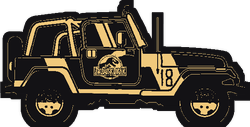
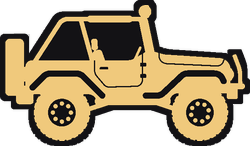
Véhicules : nouvelles silhouettes pour la Jeep et le Spinner, l'Argo pour le Monsterverse

diff --git a/_proto/e-app.js b/_proto/e-app.js
@@ -115,8 +115,8 @@ window.CG_RES = function(cle, h){
   var VEHICULES = {
     starwars: v('faucon', 195, 146), dc: v('batmobile', 250, 93), avatar: v('appa', 250, 143),
     startrek: v('enterprise', 202, 100), walkingdead: v('campingcar', 250, 119), dragonage: v('griffon', 212, 146),
-    jurassicworld: v('jeep', 250, 127), witcher: v('ablette', 174, 146), residentevil: v('helicoptere', 250, 107),
-    bladerunner: v('spinner', 250, 80), monsterverse: v('porteavions', 250, 65),
+    jurassicworld: v('jeep', 250, 146), witcher: v('ablette', 174, 146), residentevil: v('helicoptere', 250, 107),
+    bladerunner: v('spinner', 204, 74), monsterverse: v('argo', 244, 146),
     marvel: v('helicarrier', 250, 128), assassinscreed: v('aigle', 123, 146), dcanimation: v('batmobile', 250, 93)
   };
   // les noms des protos et du Dossier

diff --git a/app.js b/app.js
@@ -115,8 +115,8 @@ window.CG_RES = function(cle, h){
   var VEHICULES = {
     starwars: v('faucon', 195, 146), dc: v('batmobile', 250, 93), avatar: v('appa', 250, 143),
     startrek: v('enterprise', 202, 100), walkingdead: v('campingcar', 250, 119), dragonage: v('griffon', 212, 146),
-    jurassicworld: v('jeep', 250, 127), witcher: v('ablette', 174, 146), residentevil: v('helicoptere', 250, 107),
-    bladerunner: v('spinner', 250, 80), monsterverse: v('porteavions', 250, 65),
+    jurassicworld: v('jeep', 250, 146), witcher: v('ablette', 174, 146), residentevil: v('helicoptere', 250, 107),
+    bladerunner: v('spinner', 204, 74), monsterverse: v('argo', 244, 146),
     marvel: v('helicarrier', 250, 128), assassinscreed: v('aigle', 123, 146), dcanimation: v('batmobile', 250, 93)
   };
   // les noms des protos et du Dossier

diff --git a/CLAUDE.md b/CLAUDE.md
@@ -3995,7 +3995,7 @@ interdit par les aplats), 250 × 146 px au plus. **Tous à la même surface**
 plus de véhicule, sans un mot. Le script de conversion n'est pas versionné ; il
 détecte le fond, comble les trous, met la coque en or, tourne nez à droite. Faucon (Star Wars et Dossier), Batmobile (DC),
 Appa, Enterprise, camping-car (TWD), griffon (Dragon Age), Jeep (Jurassic), Ablette
-(The Witcher), hélicoptère (Resident Evil), Spinner, porte-avions (Monsterverse),
+(The Witcher), hélicoptère (Resident Evil), Spinner, l'Argo de Monarch (Monsterverse, vue de trois quarts : tournée nez à droite elle devenait une flèche illisible),
 héliporteur du S.H.I.E.L.D. (Marvel), aigle (Assassin's Creed) ; DC Animation reprend
 la Batmobile, choix de Niko. Jamais d'image filigranée ou payante. La carte de
 partage et les wagons de l'accueil gardent le train.
